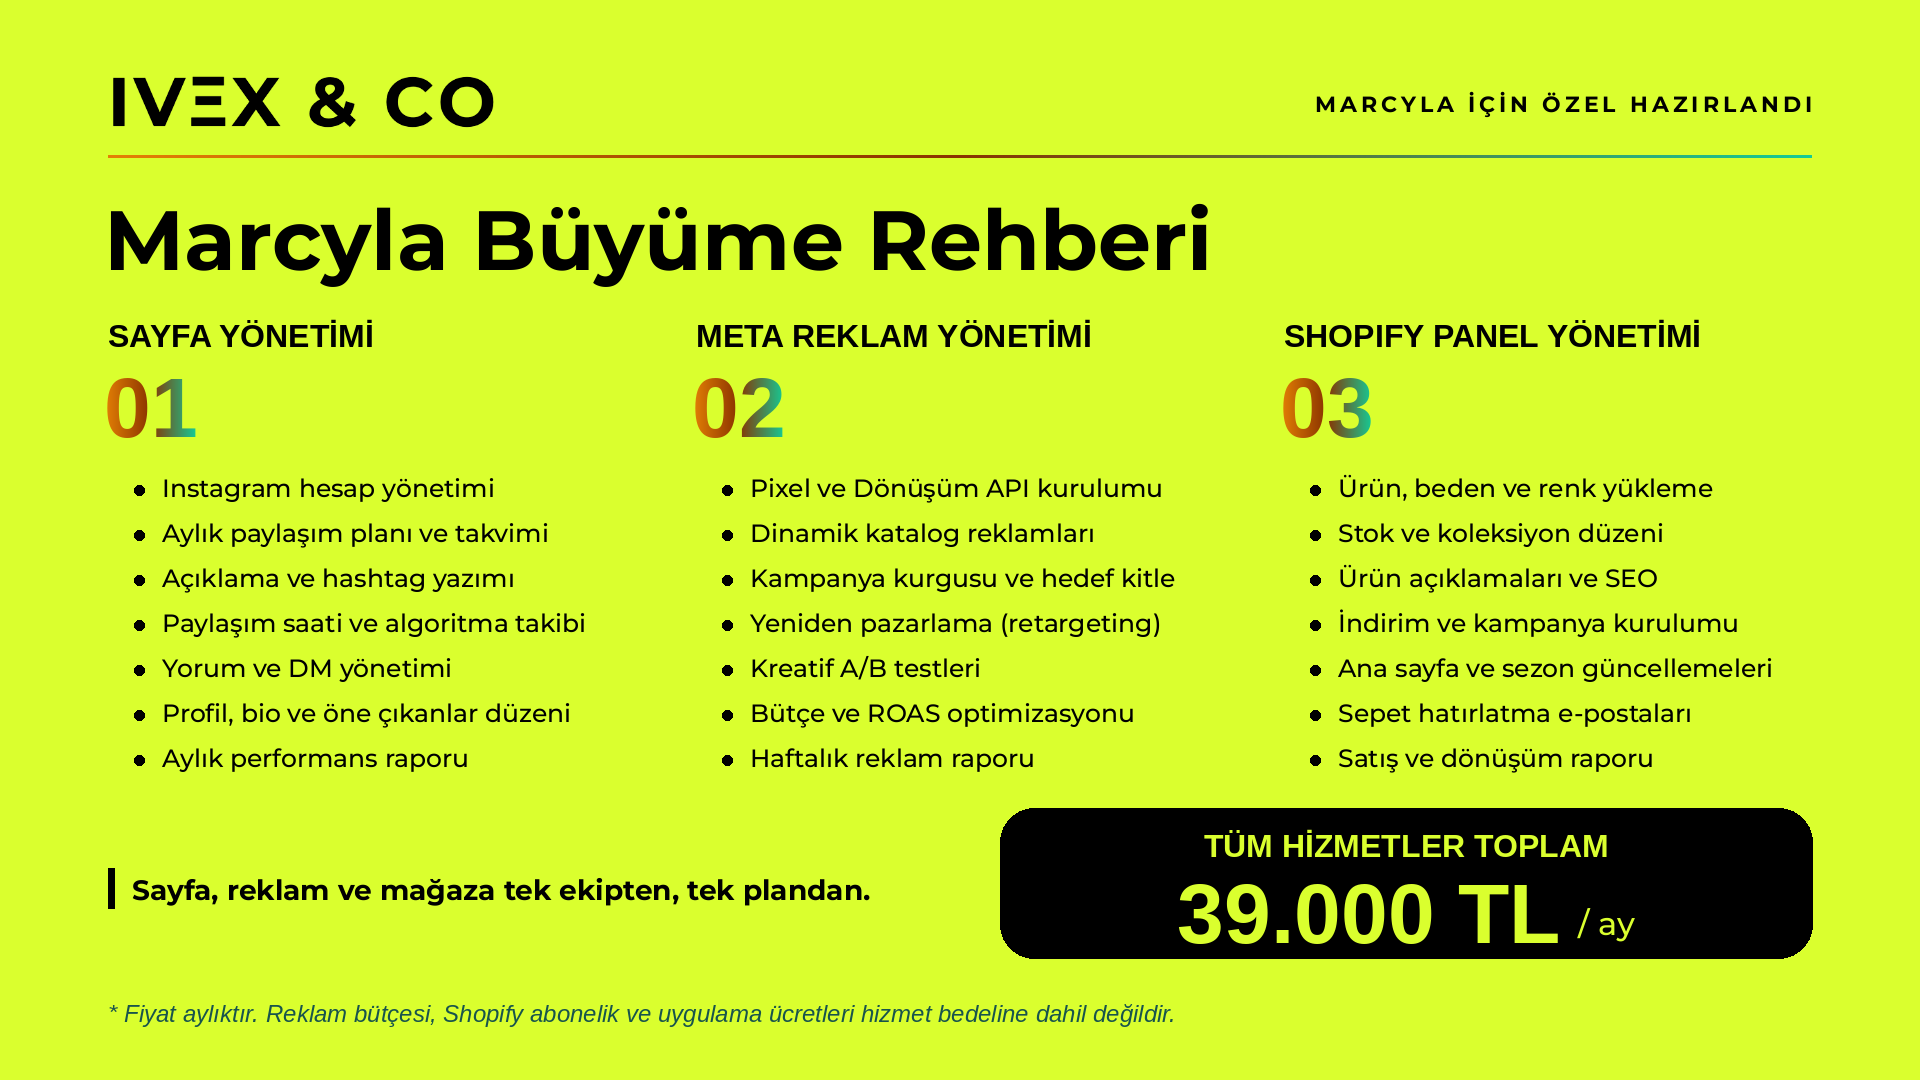
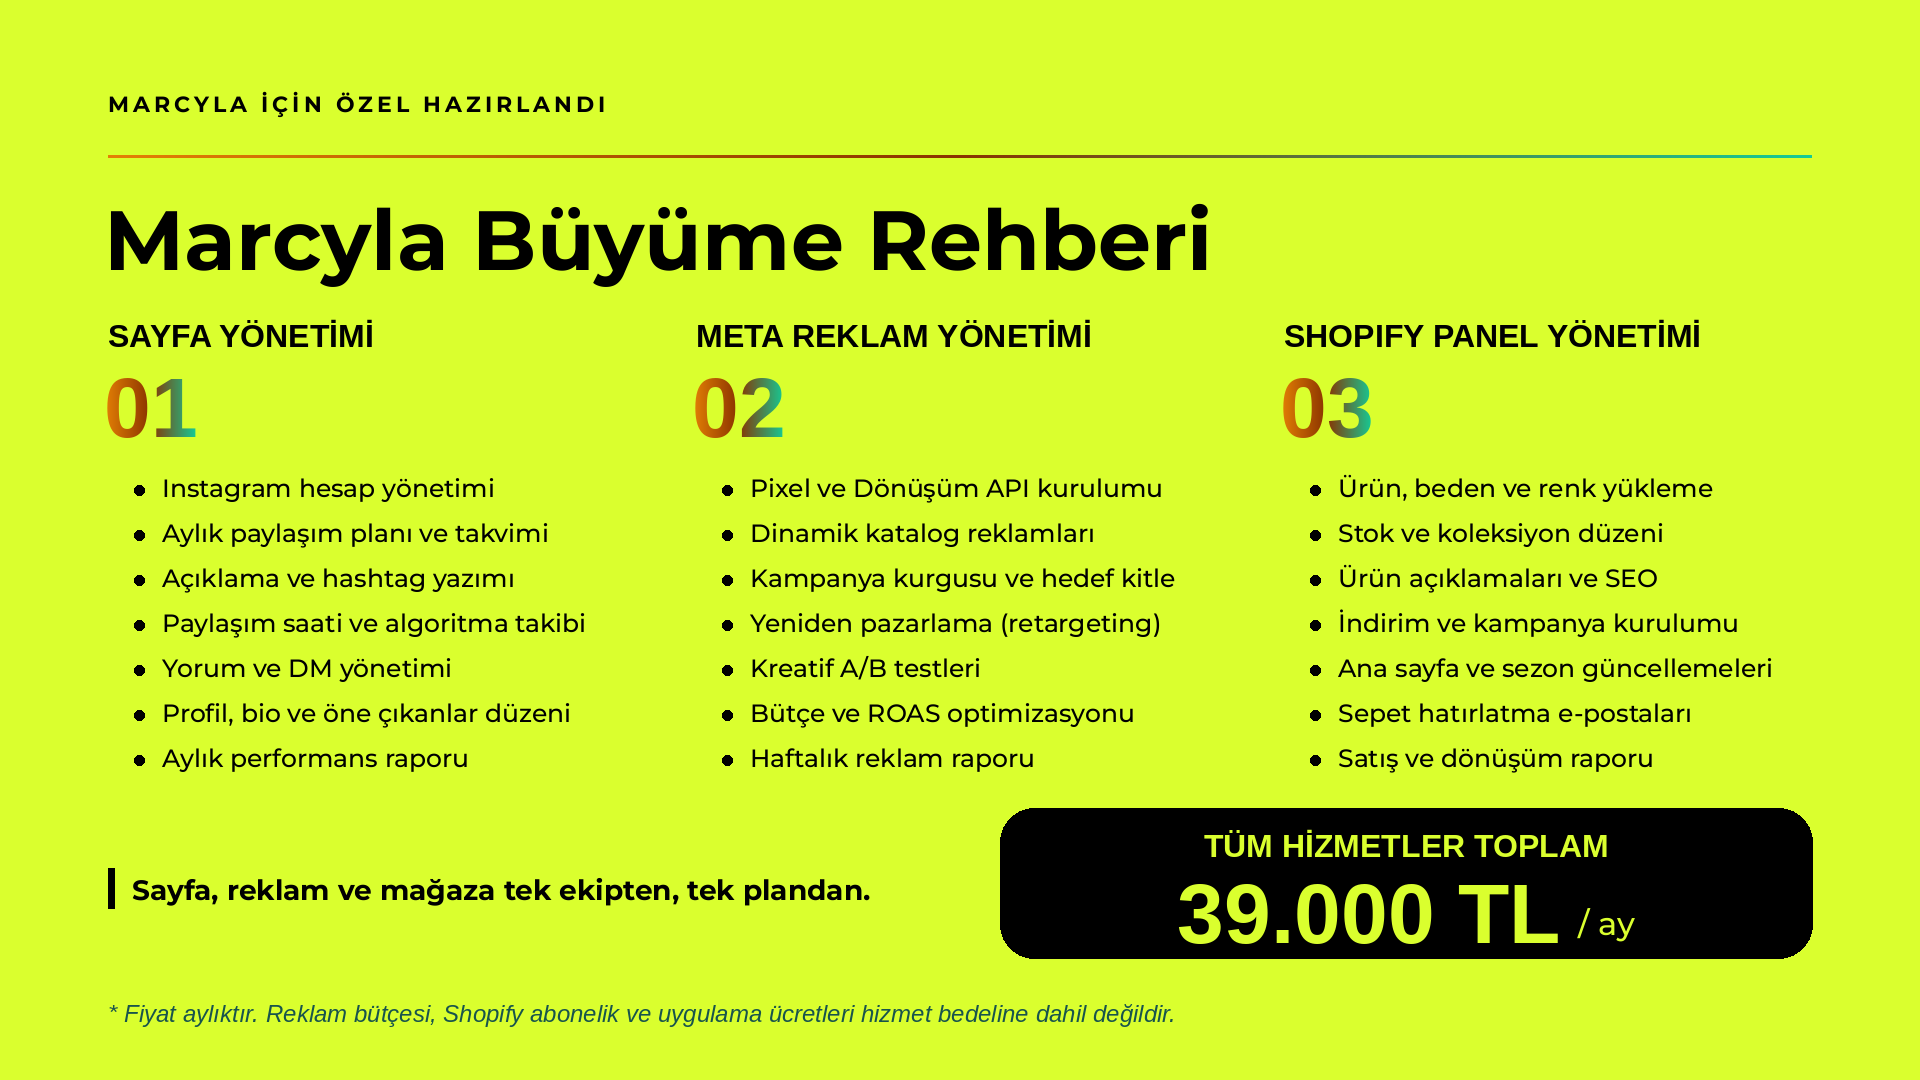
Remove the IVEX & CO wordmark from the Marcyla offer
teklif.py takes "logo": false to leave the wordmark out; the
"MARCYLA İÇİN ÖZEL HAZIRLANDI" note then moves to the top left.

Claude-Session: https://claude.ai/code/session_01XJxz6TxayURknP2UowWRAx

Changed region(s): [[0.0312, 0.0611, 0.3125, 0.1222], [0.6875, 0.0917, 0.9375, 0.1222]]

diff --git a/ivex-icerik/uretim/teklif.py b/ivex-icerik/uretim/teklif.py
@@ -73,8 +73,12 @@ def main():
         cfg = json.load(fh)
     im = Image.new("RGB", (W, H), LIME)
     d = ImageDraw.Draw(im)
-    im.paste(logo_from_template(cfg["sablon"]), (104, 68), logo_from_template(cfg["sablon"]))
-    tracked(d, (X1, 90), cfg["ust_not"], font("Bold", 22), BLACK, 4, anchor="r")
+    if cfg.get("logo", True):
+        mark = logo_from_template(cfg["sablon"])
+        im.paste(mark, (104, 68), mark)
+        tracked(d, (X1, 90), cfg["ust_not"], font("Bold", 22), BLACK, 4, anchor="r")
+    else:  # no wordmark: the note takes its place on the left
+        tracked(d, (X0, 90), cfg["ust_not"], font("Bold", 22), BLACK, 4)
     im.paste(gradient(X1 - X0, 3), (X0, 155))
     d.text((X0 - 4, 188), cfg["baslik"], font=font("Bold", 84), fill=BLACK)
 
